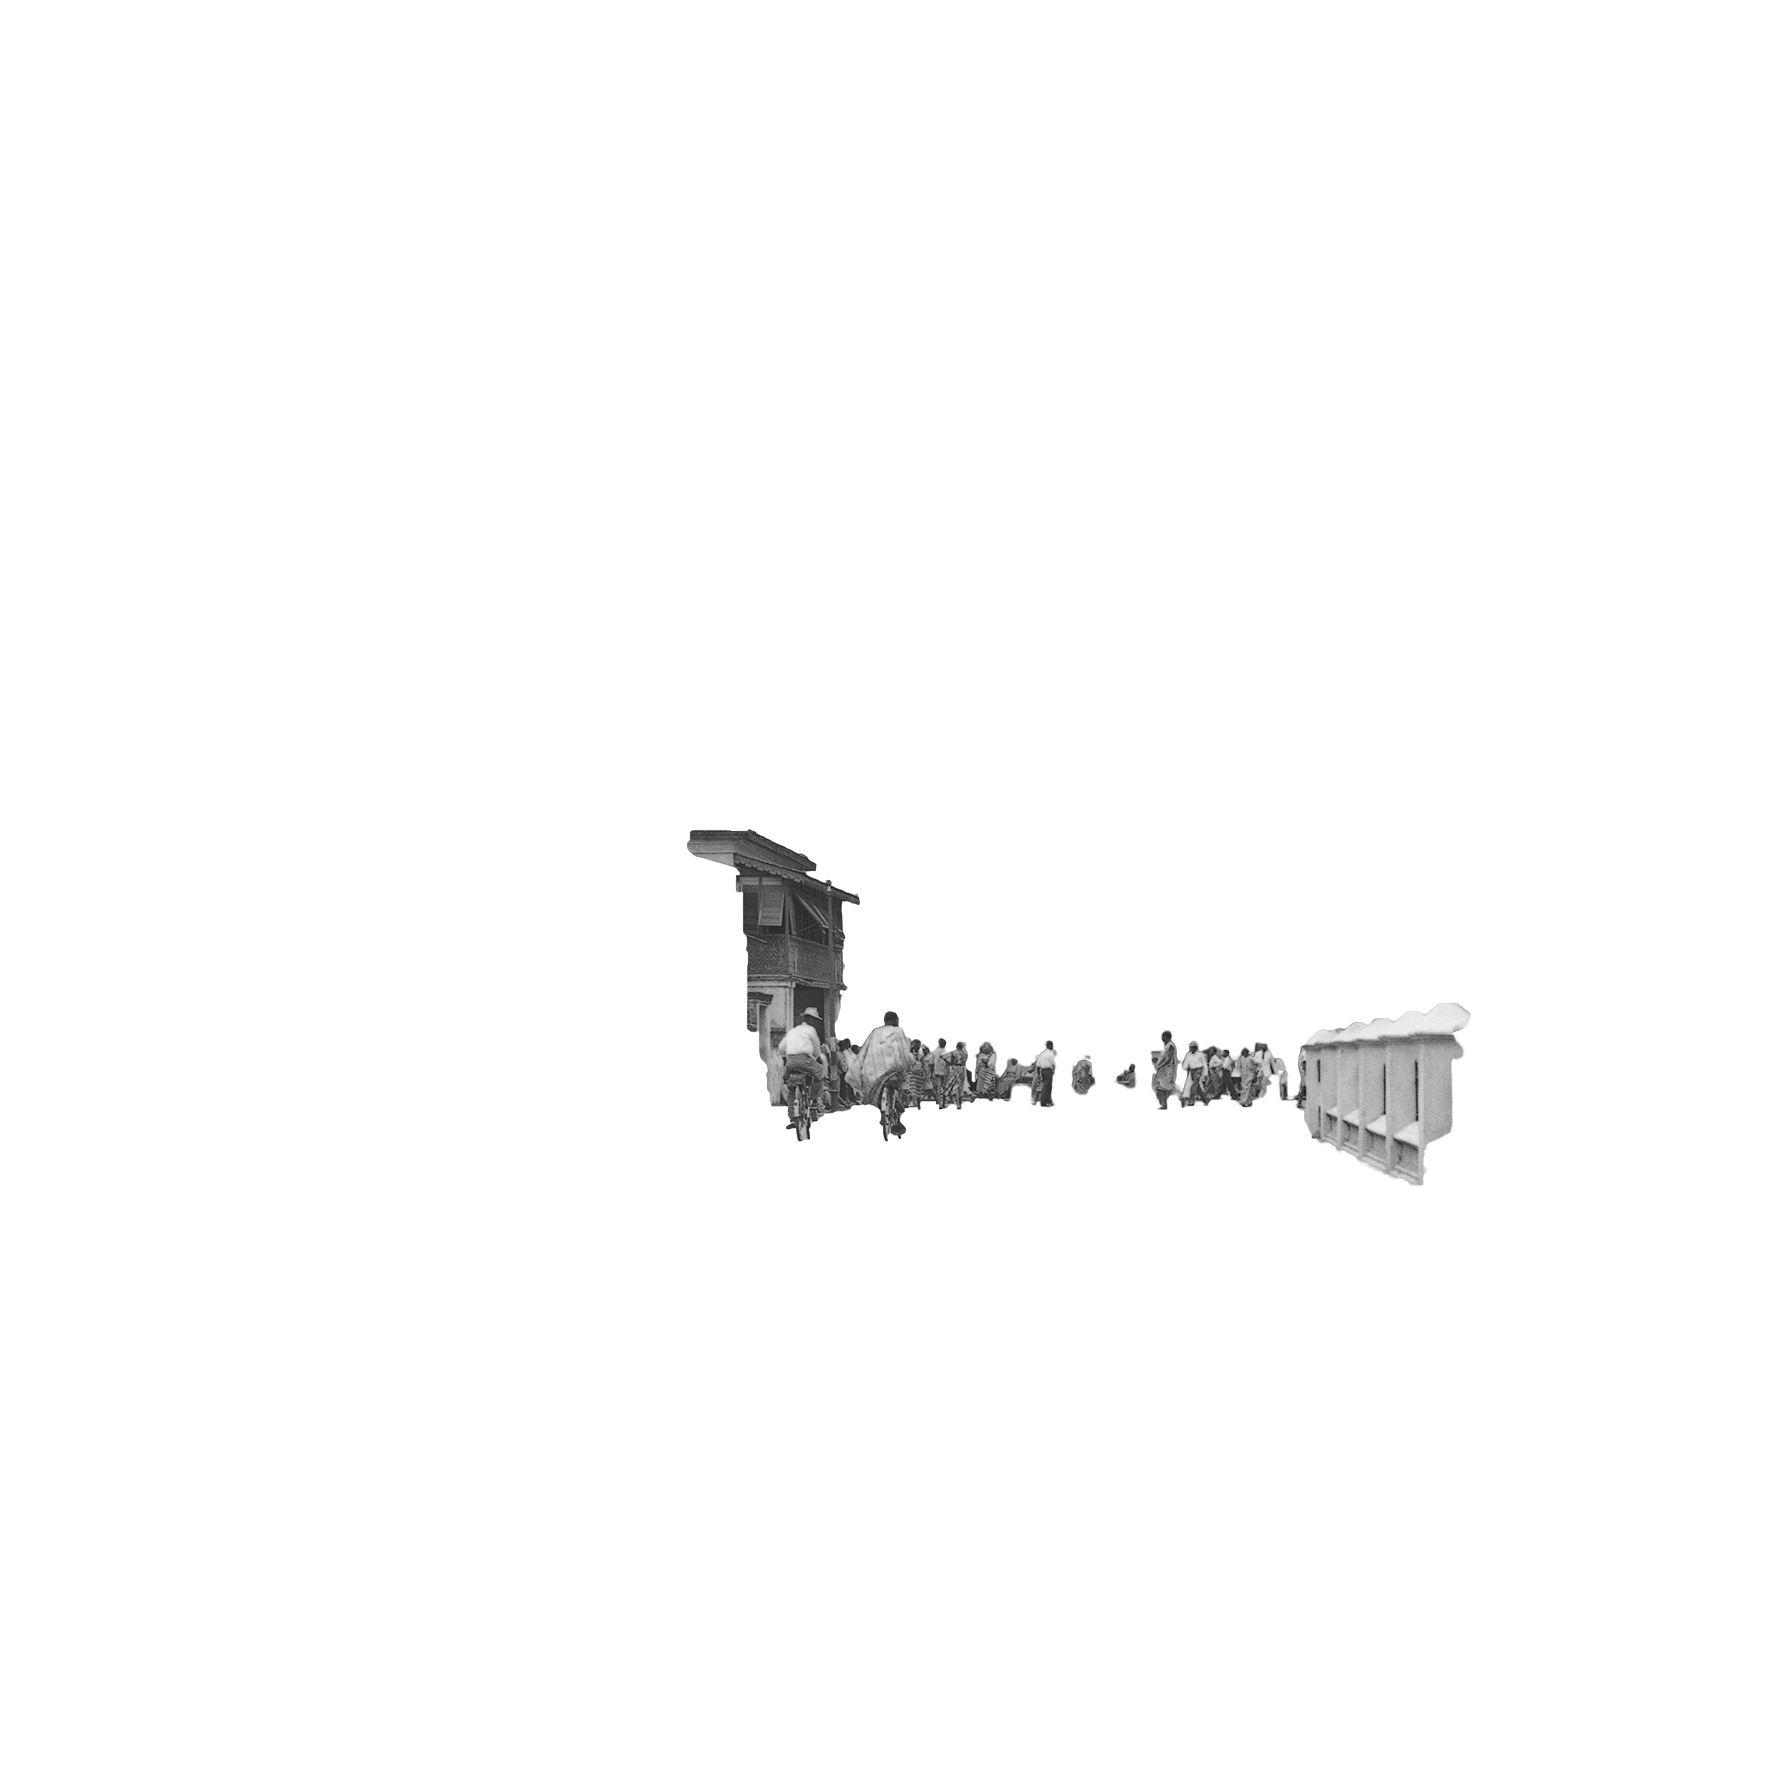
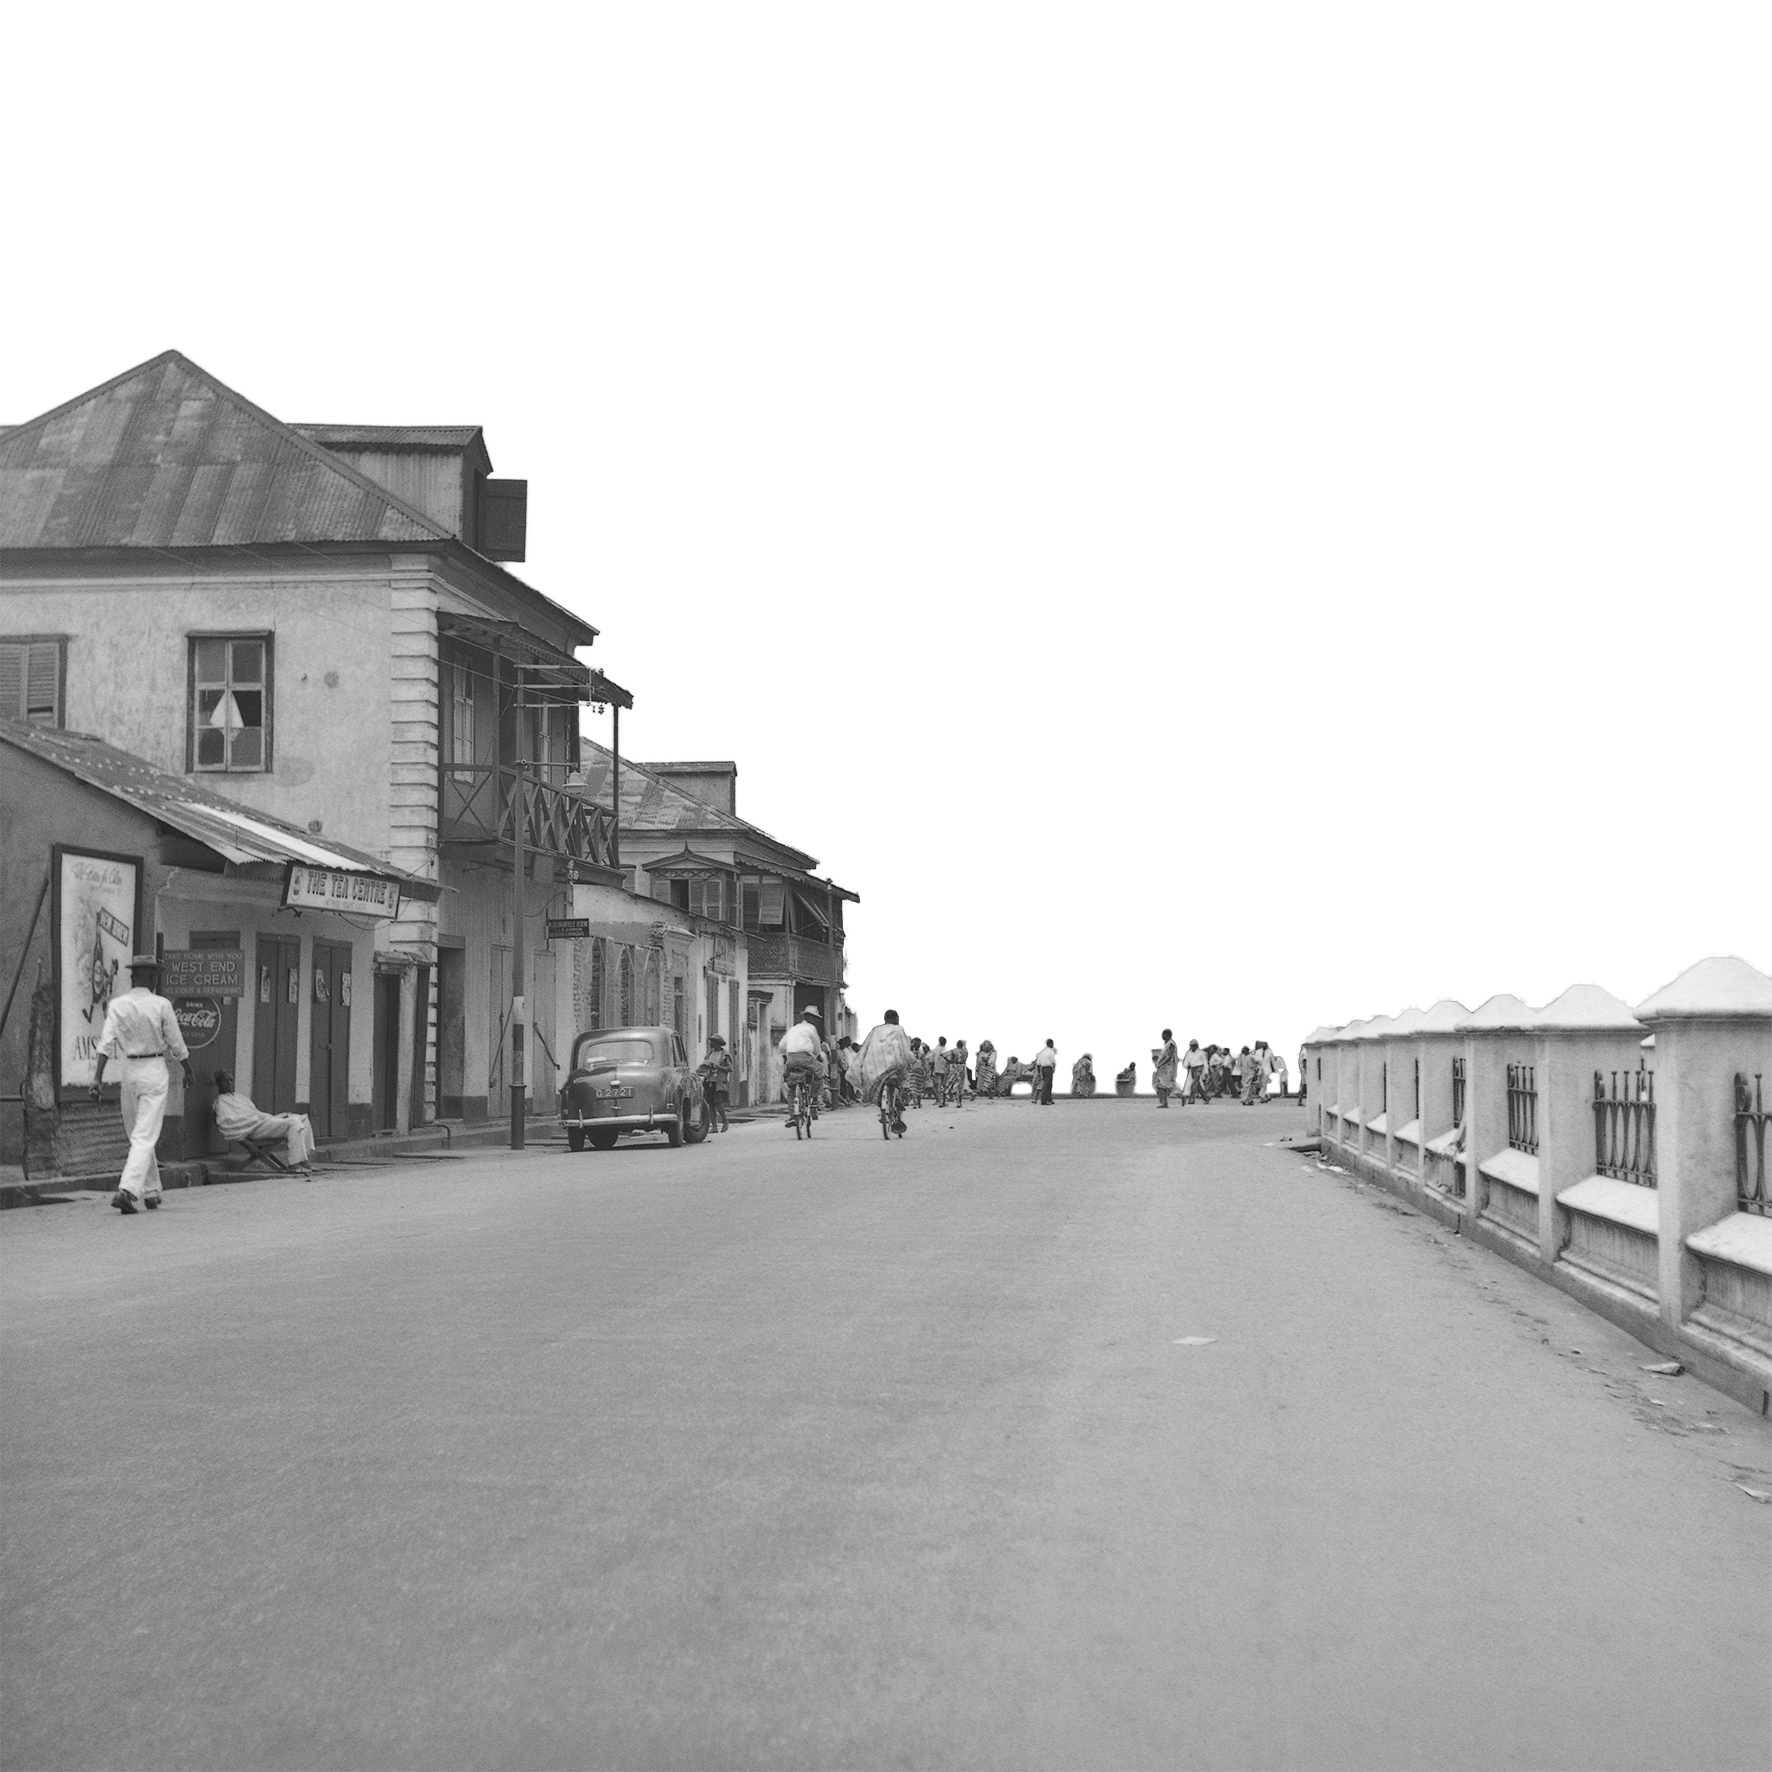
Greensock

diff --git a/static/css/style.css b/static/css/style.css
@@ -26,11 +26,33 @@ body {
     background-color: var(--light);
     font-family: 'Austral Sans', sans-serif;
 
-    /* background: url(/images/BG_red.jpg) no-repeat; */
+    background: url(/images/BG_red.jpg) no-repeat;
     background-position: center center;
     background-size: cover;
 
     color: var(--light);
+}
+
+header {
+    position: fixed;
+    top: 0;
+    width: 100%;
+    z-index: 1;
+    display: flex;
+    justify-content: center;
+}
+
+header img {
+    height: 5.5em;
+    margin-top: 3em;
+    filter: drop-shadow(0px 0px 5px rgb(0 0 0 / 0.4));
+    transform-origin: top right;
+}
+
+section {
+    background: url(/images/BG_red.jpg) no-repeat;
+    background-position: center center;
+    background-size: cover;
 }
 
 .img_cont {
@@ -44,12 +66,16 @@ body {
     height: 100%;
 }
 
-img {
+.img_cont img {
     width: 100%;
     height: 100%;
     object-fit: cover;
     display: block;
     position: absolute;
+}
+
+#overlay {
+    transform-origin: 80% 50%;
 }
 
 .space {

diff --git a/static/js/script.js b/static/js/script.js
@@ -1,11 +1,22 @@
 gsap.registerPlugin(ScrollTrigger)
 
-ScrollTrigger.create({
-	trigger: '.img_cont',
-	animation: gsap.fromTo('.scroll_cont', {scale: 1 }, {scale: 2}),
-	pin: true,
-	start: 'center center',
-	end: 'bottom left',
-	scrub: 1, // I like the 1 sec delay, set to true for exact anime on scroll
-	//markers: true,
-})
+let tl = gsap.timeline();
+
+tl.from("header img", {translateY: "-210%", rotation: "-10", duration: 2.5, ease: "elastic", delay: 1})
+
+
+
+let scrollTL = gsap.timeline({
+    scrollTrigger: {
+      trigger: '.img_cont',
+      start: 'top top',
+      end: 'bottom top',
+      scrub: 2,
+      pin: true
+    }
+});
+
+scrollTL.to('.scroll_cont', {scale: 1.6} )
+        .fromTo('#color_building', {opacity: 0}, {opacity: 1},"<")
+        .to('#background', {opacity: 0},"-=50%")
+        .to('#overlay', {opacity: 0, scale: 1.05}, "<25%")
